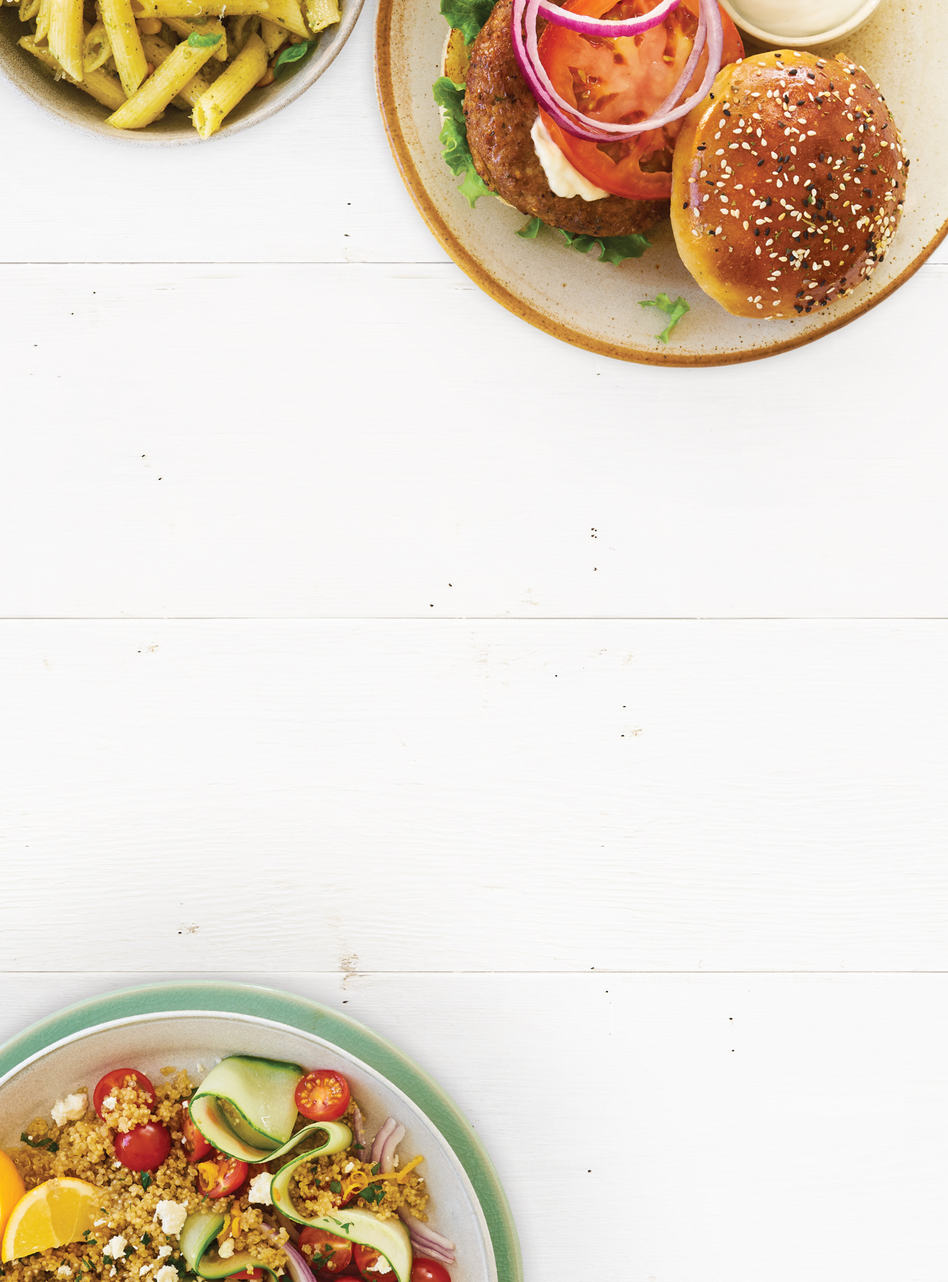
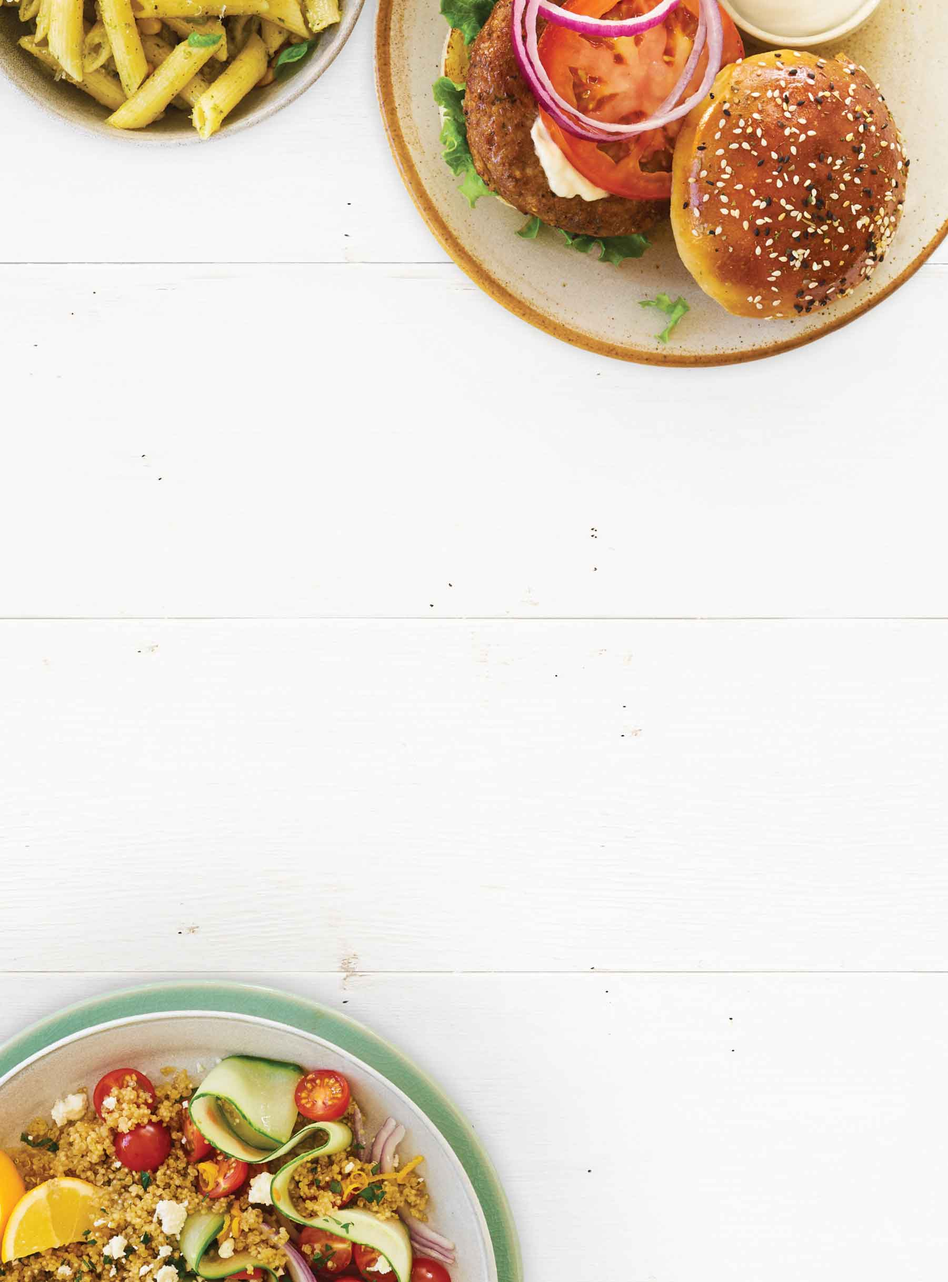
optimzing images, reverted code base, just overwriting the images currenlty in use

diff --git a/src/app/modules/home/on-board/on-board.component.scss b/src/app/modules/home/on-board/on-board.component.scss
@@ -3,9 +3,9 @@
 .on-board-content {
     height: calc(100vh - 76px);
     width: 100vw;
-    background-image: url("/assets/static_images/home-page/homepage-image-reduced.jpg");
+    background-image: url("/assets/static_images/home-page/homepage-image.jpg");
     @media (min-width: 1024px) {
-        background-image: url("/assets/static_images/home-page/desktop-homepage-image-reduced.jpg");
+        background-image: url("/assets/static_images/home-page/desktop-homepage-image.jpg");
     }
     background-repeat: no-repeat;
     background-size: cover;

diff --git a/src/app/modules/home/how-it-works/how-it-works.component.html b/src/app/modules/home/how-it-works/how-it-works.component.html
@@ -41,7 +41,7 @@
       </p>
     </div>
     <div class="img-wrapper">
-      <img src="/assets/static_images/home-page/Shop_Meal_Image-reduced.jpg" alt="Shop meal plan">
+      <img src="/assets/static_images/home-page/Shop_Meal_Image.jpg" alt="Shop meal plan">
 
     </div>
   </div>

diff --git a/src/app/app.component.scss b/src/app/app.component.scss
@@ -11,6 +11,5 @@
     max-height: 10vh;
 
   }
-  
 }
 
